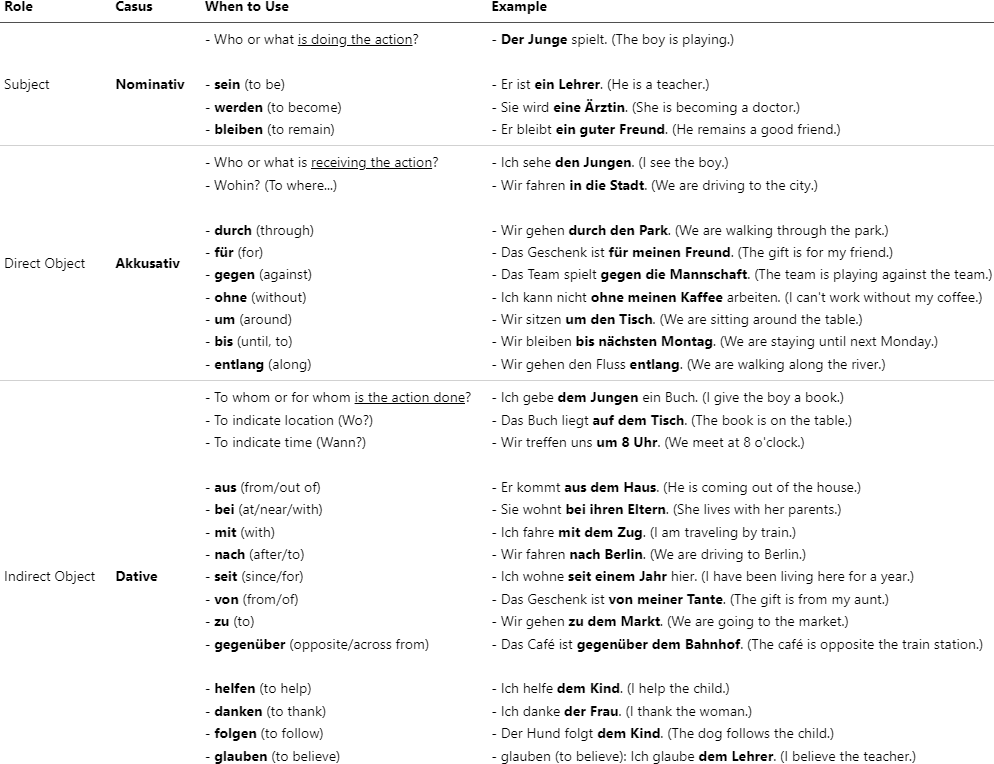
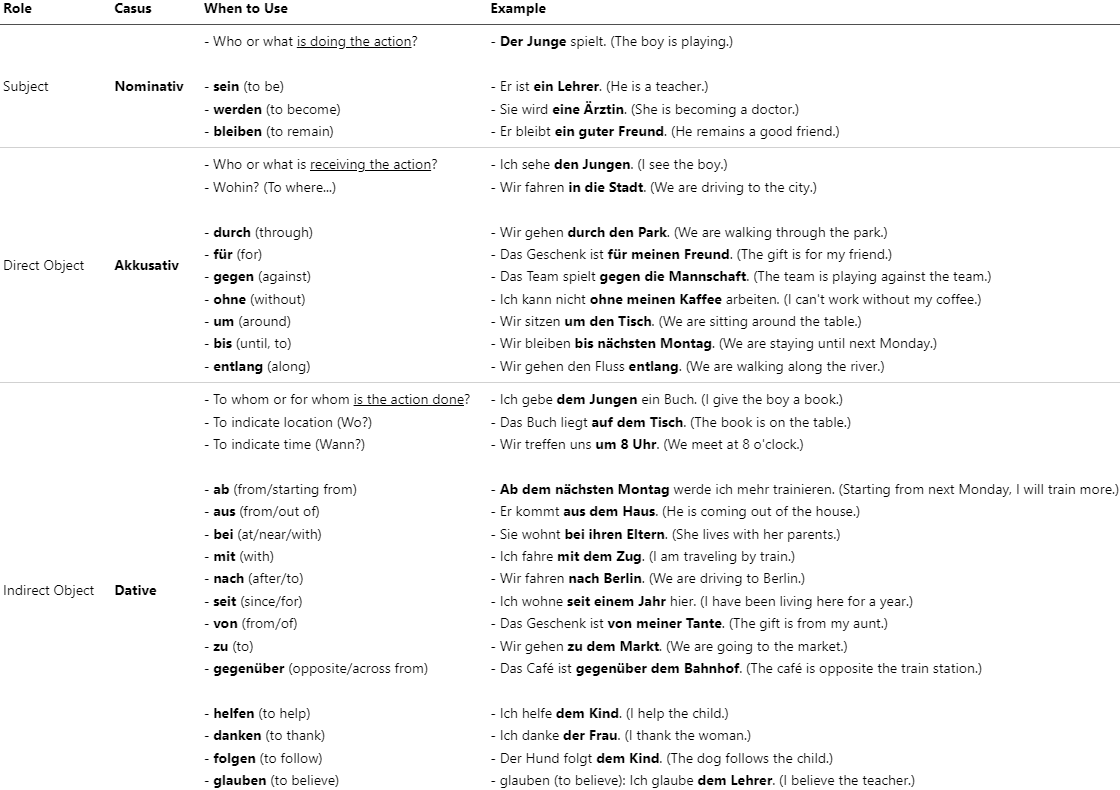
In cases, added ab to Dative

diff --git a/cases.md b/cases.md
@@ -1,5 +1,5 @@
-| **Role**        | **Casus**     | **When to Use**                                                                                                                                                                                                                                                                                                                                                                                                                                                    | **Example**                               |
-|-----------------|---------------|--------------------------------------------------------------------------------------------------------------------------------------------------------------------------------------------------------------------------------------------------------------------------------------------------------------------------------------------------------------------------------------------------------------------------------------------------------------------|-------------------------------------------|
-| Subject         | **Nominativ** | - Who or what <u>is doing the action</u>?<br><br> - **sein** (to be)<br> - **werden** (to become)<br> - **bleiben** (to remain)                                                                                                                                                                                                                                                                                                                                     | - **Der Junge** spielt. (The boy is playing.)<br><br> - Er ist **ein Lehrer**. (He is a teacher.)<br> - Sie wird **eine Ärztin**. (She is becoming a doctor.)<br> - Er bleibt **ein guter Freund**. (He remains a good friend.) |
-| Direct Object   | **Akkusativ** | - Who or what is <u>receiving the action</u>?<br>- Wohin? (To where...)<br><br> - **durch** (through)<br> - **für** (for)<br> - **gegen** (against)<br> - **ohne** (without)<br> - **um** (around)<br> - **bis** (until, to)<br> - **entlang** (along)                                                                                                                                                                                                             | - Ich sehe **den Jungen**. (I see the boy.)<br> - Wir fahren **in die Stadt**. (We are driving to the city.)<br><br> - Wir gehen **durch den Park**. (We are walking through the park.) <br> - Das Geschenk ist **für meinen Freund**. (The gift is for my friend.) <br> - Das Team spielt **gegen die Mannschaft**. (The team is playing against the team.) <br> - Ich kann nicht **ohne meinen Kaffee** arbeiten. (I can't work without my coffee.) <br> - Wir sitzen **um den Tisch**. (We are sitting around the table.) <br> - Wir bleiben **bis nächsten Montag**. (We are staying until next Monday.) <br> - Wir gehen den Fluss **entlang**. (We are walking along the river.) |
-| Indirect Object | **Dative**    | - To whom or for whom <u>is the action done</u>?<br>- To indicate location (Wo?)<br> - To indicate time (Wann?)<br><br> - **aus** (from/out of)<br> - **bei** (at/near/with)<br> - **mit** (with)<br> - **nach** (after/to)<br> - **seit** (since/for)<br> - **von** (from/of)<br> - **zu** (to)<br> - **gegenüber** (opposite/across from)<br><br> - **helfen** (to help)<br> - **danken** (to thank)<br> - **folgen** (to follow)<br> - **glauben** (to believe) | - Ich gebe **dem Jungen** ein Buch. (I give the boy a book.)<br>- Das Buch liegt **auf dem Tisch**. (The book is on the table.) <br> - Wir treffen uns **um 8 Uhr**. (We meet at 8 o'clock.)<br><br> - Er kommt **aus dem Haus**. (He is coming out of the house.) <br> - Sie wohnt **bei ihren Eltern**. (She lives with her parents.) <br> - Ich fahre **mit dem Zug**. (I am traveling by train.) <br> - Wir fahren **nach Berlin**. (We are driving to Berlin.) <br> - Ich wohne **seit einem Jahr** hier. (I have been living here for a year.) <br> - Das Geschenk ist **von meiner Tante**. (The gift is from my aunt.) <br> - Wir gehen **zu dem Markt**. (We are going to the market.) <br> - Das Café ist **gegenüber dem Bahnhof**. (The café is opposite the train station.)<br><br> - Ich helfe **dem Kind**. (I help the child.)<br> - Ich danke **der Frau**. (I thank the woman.)<br> -  Der Hund folgt **dem Kind**. (The dog follows the child.)<br> - glauben (to believe): Ich glaube **dem Lehrer**. (I believe the teacher.)|
+| **Role**        | **Casus**     | **When to Use**                                                                                                                                                                                                                                                                                                                                                                                                                                                                                      | **Example**                               |
+|-----------------|---------------|------------------------------------------------------------------------------------------------------------------------------------------------------------------------------------------------------------------------------------------------------------------------------------------------------------------------------------------------------------------------------------------------------------------------------------------------------------------------------------------------------|-------------------------------------------|
+| Subject         | **Nominativ** | - Who or what <u>is doing the action</u>?<br><br> - **sein** (to be)<br> - **werden** (to become)<br> - **bleiben** (to remain)                                                                                                                                                                                                                                                                                                                                                                      | - **Der Junge** spielt. (The boy is playing.)<br><br> - Er ist **ein Lehrer**. (He is a teacher.)<br> - Sie wird **eine Ärztin**. (She is becoming a doctor.)<br> - Er bleibt **ein guter Freund**. (He remains a good friend.) |
+| Direct Object   | **Akkusativ** | - Who or what is <u>receiving the action</u>?<br>- Wohin? (To where...)<br><br> - **durch** (through)<br> - **für** (for)<br> - **gegen** (against)<br> - **ohne** (without)<br> - **um** (around)<br> - **bis** (until, to)<br> - **entlang** (along)                                                                                                                                                                                                                                               | - Ich sehe **den Jungen**. (I see the boy.)<br> - Wir fahren **in die Stadt**. (We are driving to the city.)<br><br> - Wir gehen **durch den Park**. (We are walking through the park.) <br> - Das Geschenk ist **für meinen Freund**. (The gift is for my friend.) <br> - Das Team spielt **gegen die Mannschaft**. (The team is playing against the team.) <br> - Ich kann nicht **ohne meinen Kaffee** arbeiten. (I can't work without my coffee.) <br> - Wir sitzen **um den Tisch**. (We are sitting around the table.) <br> - Wir bleiben **bis nächsten Montag**. (We are staying until next Monday.) <br> - Wir gehen den Fluss **entlang**. (We are walking along the river.) |
+| Indirect Object | **Dative**    | - To whom or for whom <u>is the action done</u>?<br>- To indicate location (Wo?)<br> - To indicate time (Wann?)<br><br> - **ab** (from/starting from)<br> - **aus** (from/out of)<br> - **bei** (at/near/with)<br> - **mit** (with)<br> - **nach** (after/to)<br> - **seit** (since/for)<br> - **von** (from/of)<br> - **zu** (to)<br> - **gegenüber** (opposite/across from)<br><br> - **helfen** (to help)<br> - **danken** (to thank)<br> - **folgen** (to follow)<br> - **glauben** (to believe) | - Ich gebe **dem Jungen** ein Buch. (I give the boy a book.)<br>- Das Buch liegt **auf dem Tisch**. (The book is on the table.) <br> - Wir treffen uns **um 8 Uhr**. (We meet at 8 o'clock.)<br><br> - **Ab dem nächsten Montag** werde ich mehr trainieren. (Starting from next Monday, I will train more.)<br>  - Er kommt **aus dem Haus**. (He is coming out of the house.) <br> - Sie wohnt **bei ihren Eltern**. (She lives with her parents.) <br> - Ich fahre **mit dem Zug**. (I am traveling by train.) <br> - Wir fahren **nach Berlin**. (We are driving to Berlin.) <br> - Ich wohne **seit einem Jahr** hier. (I have been living here for a year.) <br> - Das Geschenk ist **von meiner Tante**. (The gift is from my aunt.) <br> - Wir gehen **zu dem Markt**. (We are going to the market.) <br> - Das Café ist **gegenüber dem Bahnhof**. (The café is opposite the train station.)<br><br> - Ich helfe **dem Kind**. (I help the child.)<br> - Ich danke **der Frau**. (I thank the woman.)<br> -  Der Hund folgt **dem Kind**. (The dog follows the child.)<br> - glauben (to believe): Ich glaube **dem Lehrer**. (I believe the teacher.)|

diff --git a/README.md b/README.md
@@ -2,7 +2,7 @@
 A collection of cheat sheets to learn German.
 
 # Cases
-![Cases](casus.png "Cases")
+![Cases](cases.png "Cases")
 
 # Declinations
 ![Declinations](declinations.png "Declinations")
